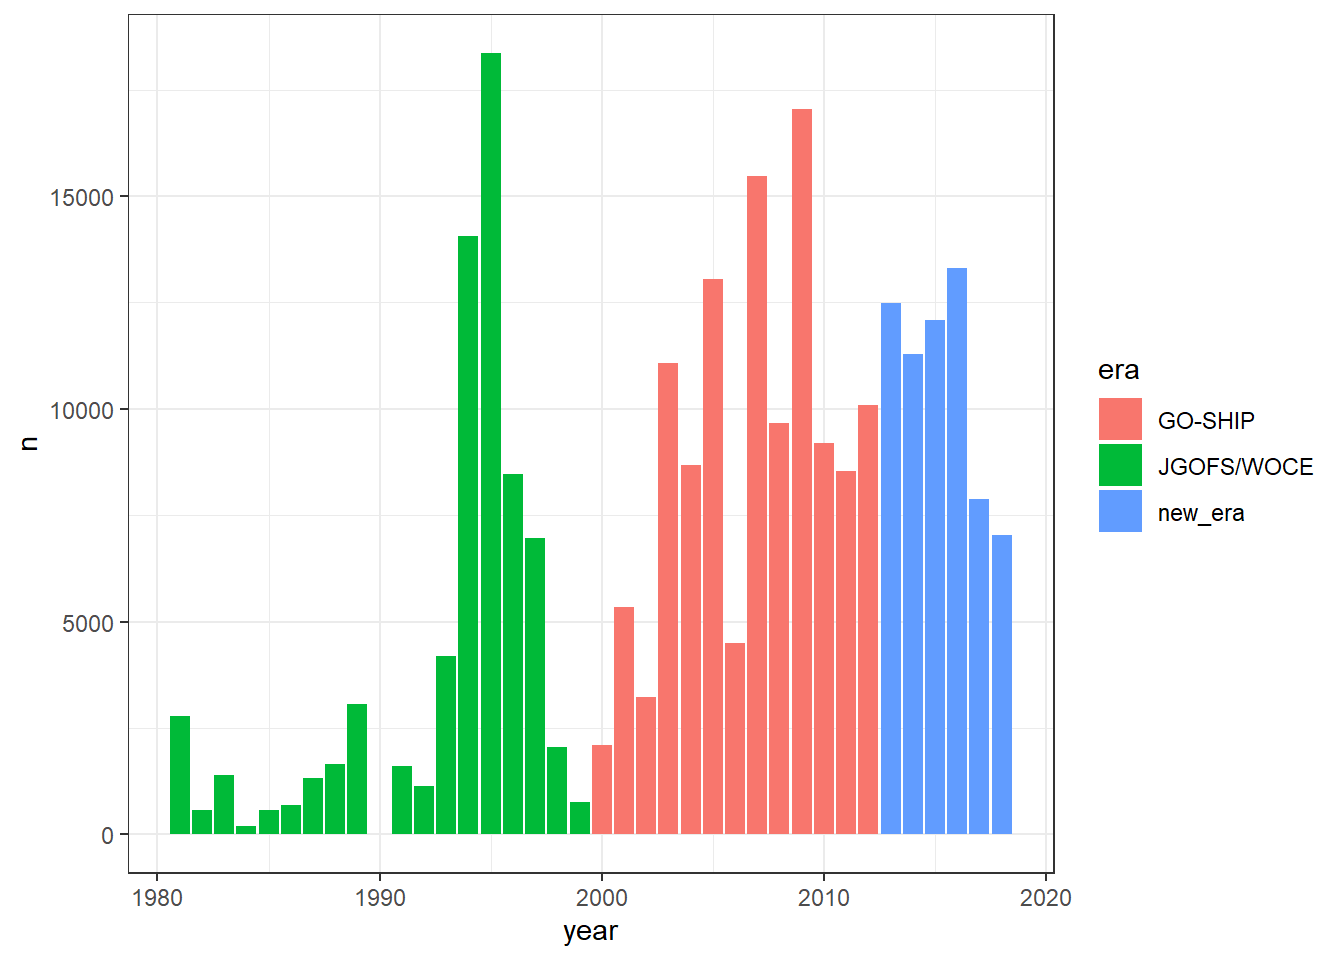
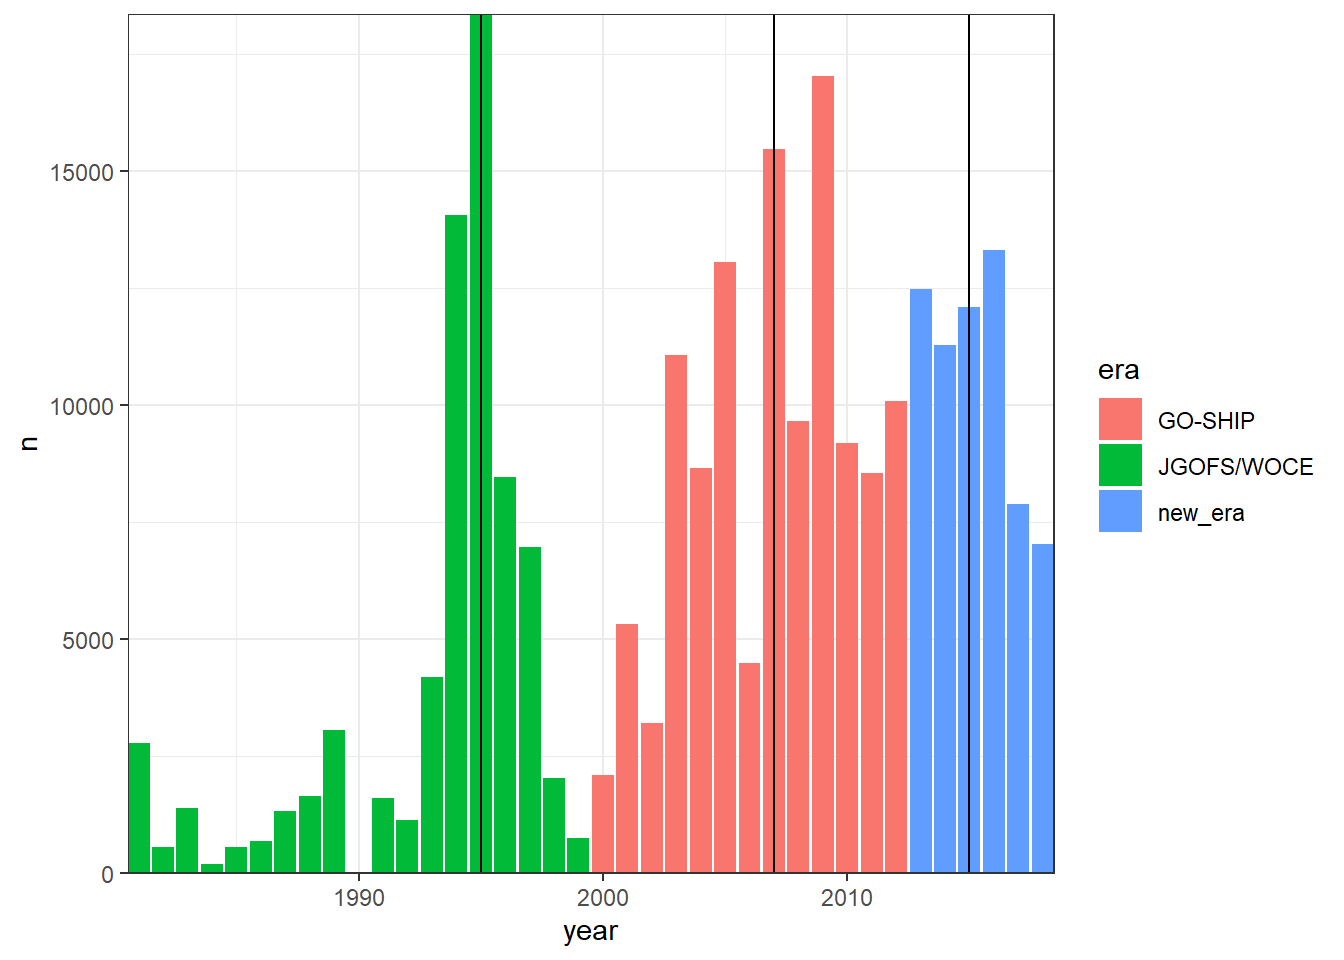
Build site.

diff --git a/docs/eMLR.html b/docs/eMLR.html
@@ -330,7 +330,7 @@ $(document).ready(function () {
 
 <h1 class="title toc-ignore">Data base</h1>
 <h4 class="author">Jens Daniel Müller</h4>
-<h4 class="date">13 July, 2020</h4>
+<h4 class="date">14 July, 2020</h4>
 
 </div>
 
@@ -355,7 +355,7 @@ $(document).ready(function () {
 <div class="tab-content">
 <div id="summary" class="tab-pane fade in active">
 <p>
-<strong>Last updated:</strong> 2020-07-13
+<strong>Last updated:</strong> 2020-07-14
 </p>
 <p>
 <strong>Checks:</strong> <span class="glyphicon glyphicon-ok text-success" aria-hidden="true"></span> 7 <span class="glyphicon glyphicon-exclamation-sign text-danger" aria-hidden="true"></span> 0
@@ -446,16 +446,16 @@ This reproducible <a href="http://rmarkdown.rstudio.com">R Markdown</a> analysis
 <div class="panel panel-default">
 <div class="panel-heading">
 <p class="panel-title">
-<a data-toggle="collapse" data-parent="#workflowr-checks" href="#strongRepositoryversionstrongahrefhttpsgithubcomjensdanielmuellerCanteMLRtree8eb1b22cf0563d3f3e583318201f9a60fa7a2974targetblank8eb1b22a"> <span class="glyphicon glyphicon-ok text-success" aria-hidden="true"></span> <strong>Repository version:</strong> <a href="https://github.com/jens-daniel-mueller/Cant_eMLR/tree/8eb1b22cf0563d3f3e583318201f9a60fa7a2974" target="_blank">8eb1b22</a> </a>
+<a data-toggle="collapse" data-parent="#workflowr-checks" href="#strongRepositoryversionstrongahrefhttpsgithubcomjensdanielmuellerCanteMLRtreedc1c56e4c339d215b891b5b6e6cb984328a8cca4targetblankdc1c56ea"> <span class="glyphicon glyphicon-ok text-success" aria-hidden="true"></span> <strong>Repository version:</strong> <a href="https://github.com/jens-daniel-mueller/Cant_eMLR/tree/dc1c56e4c339d215b891b5b6e6cb984328a8cca4" target="_blank">dc1c56e</a> </a>
 </p>
 </div>
[2 lines of base64/hex data omitted]
 <div class="panel-body">
 <p>
 Great! You are using Git for version control. Tracking code development and connecting the code version to the results is critical for reproducibility.
 </p>
 <p>
-The results in this page were generated with repository version <a href="https://github.com/jens-daniel-mueller/Cant_eMLR/tree/8eb1b22cf0563d3f3e583318201f9a60fa7a2974" target="_blank">8eb1b22</a>. See the <em>Past versions</em> tab to see a history of the changes made to the R Markdown and HTML files.
+The results in this page were generated with repository version <a href="https://github.com/jens-daniel-mueller/Cant_eMLR/tree/dc1c56e4c339d215b891b5b6e6cb984328a8cca4" target="_blank">dc1c56e</a>. See the <em>Past versions</em> tab to see a history of the changes made to the R Markdown and HTML files.
 </p>
 <p>
 Note that you need to be careful to ensure that all relevant files for the analysis have been committed to Git prior to generating the results (you can use <code>wflow_publish</code> or <code>wflow_git_commit</code>). workflowr only checks the R Markdown file, but you know if there are other scripts or data files that it depends on. Below is the status of the Git repository when the results were generated:
@@ -504,6 +504,40 @@ Message
 </tr>
 </thead>
 <tbody>
+<tr>
+<td>
+Rmd
+</td>
+<td>
+<a href="https://github.com/jens-daniel-mueller/Cant_eMLR/blob/dc1c56e4c339d215b891b5b6e6cb984328a8cca4/analysis/eMLR.Rmd" target="_blank">dc1c56e</a>
+</td>
+<td>
+jens-daniel-mueller
+</td>
+<td>
+2020-07-14
+</td>
+<td>
+tref calculated
+</td>
+</tr>
+<tr>
+<td>
+html
+</td>
+<td>
+<a href="https://rawcdn.githack.com/jens-daniel-mueller/Cant_eMLR/b1ece68130e146e5b0d1534c69b8f90aa538046c/docs/eMLR.html" target="_blank">b1ece68</a>
+</td>
+<td>
+jens-daniel-mueller
+</td>
+<td>
+2020-07-13
+</td>
+<td>
+Build site.
+</td>
+</tr>
 <tr>
 <td>
 Rmd
@@ -673,9 +707,11 @@ map / lat_tco2 / lat_talk / lat_phosphate / lat_C_star</code></pre>
 </div>
 <div id="reference-year-adjustment" class="section level1">
 <h1><span class="header-section-number">3</span> Reference year adjustment</h1>
-<p>The scaling factor Cant_apriori at a given location and depth was estimated for each reference year from XXX.</p>
+<p>The scaling factor Cant_apriori at a given location and depth was estimated for each reference year from XXX. Note that eq. 6 in Clement and Gruber (2018) misses pCO2 pre-industrial in the denominator.</p>
 <pre class="r"><code>GLODAP &lt;- GLODAP %&gt;% 
-  mutate(C_star_ref = C_star - ( (pCO2_atm(year) - pCO2_atm(year_ref)) / pCO2_atm(year_ref) ) * Cant_ref)</code></pre>
+  mutate(C_star_ref = C_star - 
+           ( (pCO2_atm(year) - pCO2_atm(year_ref)) / 
+               (pCO2_atm(year_ref) - pCO2_atm(year_pi) ) * Cant_ref)</code></pre>
 </div>
 <div id="mlr-fitting" class="section level1">
 <h1><span class="header-section-number">4</span> MLR fitting</h1>

diff --git a/docs/data_base.html b/docs/data_base.html
@@ -330,7 +330,7 @@ $(document).ready(function () {
 
 <h1 class="title toc-ignore">Data base</h1>
 <h4 class="author">Jens Daniel Müller</h4>
-<h4 class="date">13 July, 2020</h4>
+<h4 class="date">14 July, 2020</h4>
 
 </div>
 
@@ -355,7 +355,7 @@ $(document).ready(function () {
 <div class="tab-content">
 <div id="summary" class="tab-pane fade in active">
 <p>
-<strong>Last updated:</strong> 2020-07-13
+<strong>Last updated:</strong> 2020-07-14
 </p>
 <p>
 <strong>Checks:</strong> <span class="glyphicon glyphicon-ok text-success" aria-hidden="true"></span> 7 <span class="glyphicon glyphicon-exclamation-sign text-danger" aria-hidden="true"></span> 0
@@ -446,16 +446,16 @@ This reproducible <a href="http://rmarkdown.rstudio.com">R Markdown</a> analysis
 <div class="panel panel-default">
 <div class="panel-heading">
 <p class="panel-title">
-<a data-toggle="collapse" data-parent="#workflowr-checks" href="#strongRepositoryversionstrongahrefhttpsgithubcomjensdanielmuellerCanteMLRtree8eb1b22cf0563d3f3e583318201f9a60fa7a2974targetblank8eb1b22a"> <span class="glyphicon glyphicon-ok text-success" aria-hidden="true"></span> <strong>Repository version:</strong> <a href="https://github.com/jens-daniel-mueller/Cant_eMLR/tree/8eb1b22cf0563d3f3e583318201f9a60fa7a2974" target="_blank">8eb1b22</a> </a>
+<a data-toggle="collapse" data-parent="#workflowr-checks" href="#strongRepositoryversionstrongahrefhttpsgithubcomjensdanielmuellerCanteMLRtreedc1c56e4c339d215b891b5b6e6cb984328a8cca4targetblankdc1c56ea"> <span class="glyphicon glyphicon-ok text-success" aria-hidden="true"></span> <strong>Repository version:</strong> <a href="https://github.com/jens-daniel-mueller/Cant_eMLR/tree/dc1c56e4c339d215b891b5b6e6cb984328a8cca4" target="_blank">dc1c56e</a> </a>
 </p>
 </div>
[2 lines of base64/hex data omitted]
 <div class="panel-body">
 <p>
 Great! You are using Git for version control. Tracking code development and connecting the code version to the results is critical for reproducibility.
 </p>
 <p>
-The results in this page were generated with repository version <a href="https://github.com/jens-daniel-mueller/Cant_eMLR/tree/8eb1b22cf0563d3f3e583318201f9a60fa7a2974" target="_blank">8eb1b22</a>. See the <em>Past versions</em> tab to see a history of the changes made to the R Markdown and HTML files.
+The results in this page were generated with repository version <a href="https://github.com/jens-daniel-mueller/Cant_eMLR/tree/dc1c56e4c339d215b891b5b6e6cb984328a8cca4" target="_blank">dc1c56e</a>. See the <em>Past versions</em> tab to see a history of the changes made to the R Markdown and HTML files.
 </p>
 <p>
 Note that you need to be careful to ensure that all relevant files for the analysis have been committed to Git prior to generating the results (you can use <code>wflow_publish</code> or <code>wflow_git_commit</code>). workflowr only checks the R Markdown file, but you know if there are other scripts or data files that it depends on. Below is the status of the Git repository when the results were generated:
@@ -504,6 +504,40 @@ Message
 </tr>
 </thead>
 <tbody>
+<tr>
+<td>
+Rmd
+</td>
+<td>
+<a href="https://github.com/jens-daniel-mueller/Cant_eMLR/blob/dc1c56e4c339d215b891b5b6e6cb984328a8cca4/analysis/data_base.Rmd" target="_blank">dc1c56e</a>
+</td>
+<td>
+jens-daniel-mueller
+</td>
+<td>
+2020-07-14
+</td>
+<td>
+tref calculated
+</td>
+</tr>
+<tr>
+<td>
+html
+</td>
+<td>
+<a href="https://rawcdn.githack.com/jens-daniel-mueller/Cant_eMLR/b1ece68130e146e5b0d1534c69b8f90aa538046c/docs/data_base.html" target="_blank">b1ece68</a>
+</td>
+<td>
+jens-daniel-mueller
+</td>
+<td>
+2020-07-13
+</td>
+<td>
+Build site.
+</td>
+</tr>
 <tr>
 <td>
 Rmd
@@ -980,6 +1014,11 @@ GLODAP_map_era &lt;- GLODAP %&gt;%
 GLODAP_hovmoeller_year &lt;- GLODAP %&gt;% 
   group_by(year, lat_grid) %&gt;% 
   tally() %&gt;% 
+  ungroup()
+
+era_median_year &lt;- GLODAP %&gt;% 
+  group_by(era) %&gt;% 
+  summarise(t_ref = median(year)) %&gt;% 
   ungroup()</code></pre>
 </div>
 <div id="histograms" class="section level2">
@@ -993,7 +1032,9 @@ GLODAP_hovmoeller_year &lt;- GLODAP %&gt;%
 <p><img src="figure/data_base.Rmd/histogramm_latitude_observations-1.png" width="672" style="display: block; margin: auto;" /></p>
 <pre class="r"><code>GLODAP_histogram_year %&gt;% 
   ggplot(aes(year, n, fill=era))+
-  geom_col()</code></pre>
+  geom_col()+
+  geom_vline(xintercept = era_median_year$t_ref)+
+  coord_cartesian(expand = 0)</code></pre>
 <p><img src="figure/data_base.Rmd/histogramm_year_observations-1.png" width="672" style="display: block; margin: auto;" /></p>
 <pre class="r"><code>rm(GLODAP_histogram_year)</code></pre>
 </div>
